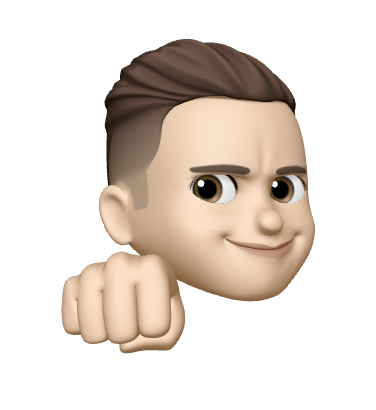
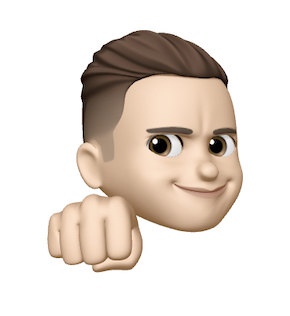
fix picture size

diff --git a/README.md b/README.md
@@ -1,4 +1,4 @@
-# Hi, I'm Brennon Nuckols
+# Hi, I'm Brennon
 
 ![](https://github.com/brennuck/brennuck/blob/master/images/IMG_8525.jpeg)
 
